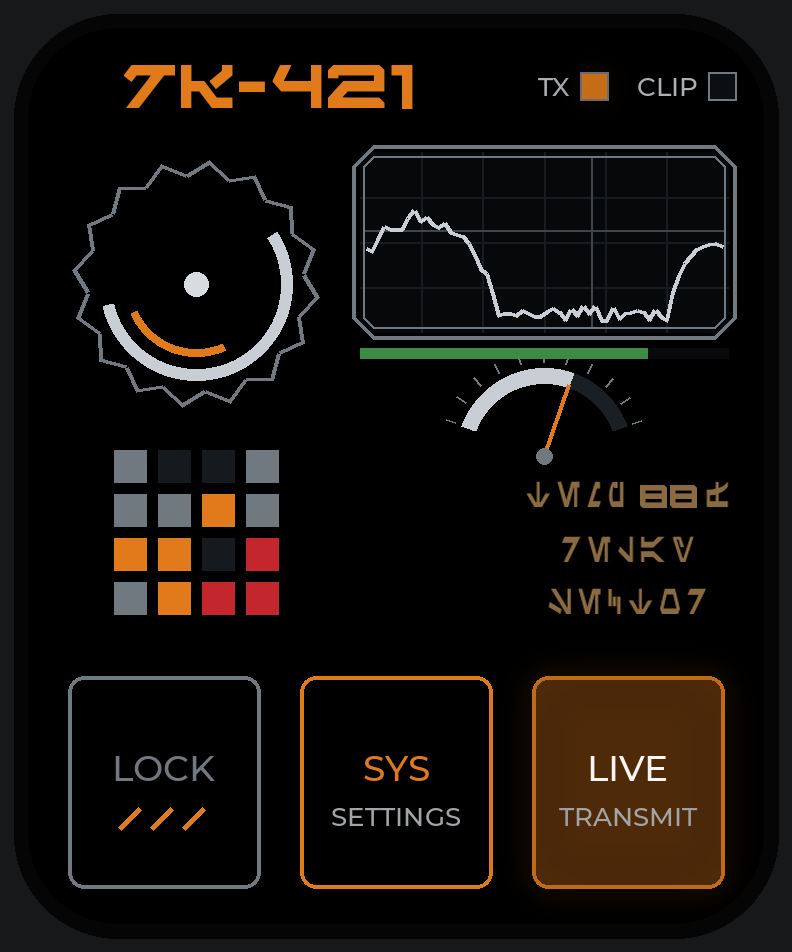
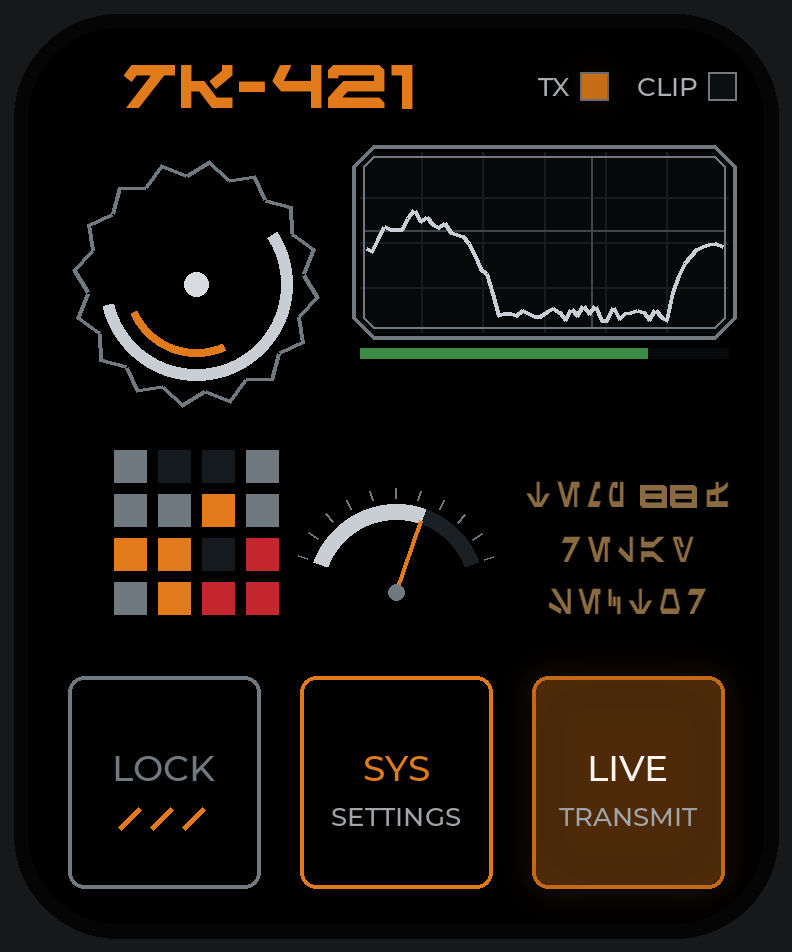
Concepts 10/12/15/17: arc gauge centred in the middle row
Claude-Session: https://claude.ai/code/session_014PmTqdRFYRCH22NdKcRT7c

diff --git a/design/skins/concepts/make_concepts.py b/design/skins/concepts/make_concepts.py
@@ -475,7 +475,7 @@ def layout_hero(sc, c, t):
     p = PAL[c["pal"]]
     ROTORS[c["rotor"]](sc, 84, 128, p, t, **({"r": 62} if c["rotor"] in ("scomp", "reticle", "radar", "gear", "square") else {}))
     scope_rect(sc, (166, 62, 350, 152), p, c["frame"], t)
-    meter_arc(sc, 258, 214, 44, p, 64)
+    meter_arc(sc, 184, 282, 44, p, 64)          # centre of the middle row, between lamps and readout
     batt_h(sc, 166, 350, 160)
     LAMPS[c["lamps"]](sc, 84, 252, p, c["seed"]) if c["lamps"] != "switcher" else lamps_switcher(sc, 84, 256, p, c["seed"], cols=6, rows=4)
     readout(sc, 300, 260, p, c["seed"], lines=3, pitch=26)
